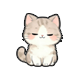
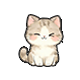
增加过度动画

Changed region(s): [[0.2, 0.15, 0.8, 0.85], [0.575, 0.35, 0.6, 0.4]]

diff --git a/main.py b/main.py
@@ -1,16 +1,22 @@
 import sys
 import os
-from PyQt5.QtWidgets import QApplication, QLabel
-from PyQt5.QtCore import Qt, QPoint, QTimer
-from PyQt5.QtGui import QPixmap
+
+from PyQt6.QtWidgets import (
+    QApplication,
+    QLabel,
+    QMenu,
+)
+from PyQt6.QtCore import Qt, QPoint, QTimer
+from PyQt6.QtGui import QPixmap, QAction
+#启动命令
+# python main.py
 
 
-def resource_path(relative_path):
-    try:
-        base_path = sys._MEIPASS
-    except Exception:
-        base_path = os.path.abspath(".")
-    return os.path.join(base_path, relative_path)
+def resource_path(relative_path: str) -> str:
+    """兼容 PyInstaller / 本地运行"""
+    if hasattr(sys, "_MEIPASS"):
+        return os.path.join(sys._MEIPASS, relative_path)
+    return os.path.join(os.path.abspath("."), relative_path)
 
 
 class DesktopPet(QLabel):
@@ -19,33 +25,30 @@ class DesktopPet(QLabel):
 
         # ===== 窗口设置 =====
         self.setWindowFlags(
-            Qt.FramelessWindowHint |
-            Qt.WindowStaysOnTopHint |
-            Qt.Tool
+            Qt.WindowType.FramelessWindowHint |
+            Qt.WindowType.WindowStaysOnTopHint |
+            Qt.WindowType.Tool
         )
-        self.setAttribute(Qt.WA_TranslucentBackground)
+        self.setAttribute(Qt.WidgetAttribute.WA_TranslucentBackground)
 
-        # ===== 加载图片（不改动作）=====
+        # ===== 图片资源（不改动作）=====
         self.frames = [
-            QPixmap(resource_path("assets/stand/1.png")),
-            QPixmap(resource_path("assets/stand/2.png")),
-            QPixmap(resource_path("assets/stand/3.png")),
-            QPixmap(resource_path("assets/stand/4.png")),
+            QPixmap(resource_path("assets/stand/6.png")),
+            QPixmap(resource_path("assets/stand/7.png")),
+            QPixmap(resource_path("assets/stand/8.png")),
+            QPixmap(resource_path("assets/stand/9.png")),
         ]
 
-        # ===== 动画轨道（顺序 + 停留）=====
-        self.sequence = [0, 0, 1, 2, 3, 3, 2, 1, 0]
-
-        # ===== 每一帧的节奏（ms）=====
-        self.intervals = [260, 200, 120, 120, 220, 260, 140, 140, 300]
+        # ===== 动画轨道 =====
+        self.sequence = [0, 1, 2, 3, 3, 2, 1, 0]
+        self.intervals = [900, 120, 150, 180, 180, 150, 120, 1200]
 
         self.seq_index = 0
 
-        # ===== 显示第一帧 =====
         self.setPixmap(self.frames[0])
         self.resize(self.frames[0].size())
 
-        # ===== 初始位置（防止跑飞）=====
+        # ===== 初始位置 =====
         screen = QApplication.primaryScreen().geometry()
         self.base_x = (screen.width() - self.width()) // 2
         self.base_y = (screen.height() - self.height()) // 2
@@ -54,37 +57,63 @@ class DesktopPet(QLabel):
         # ===== 拖拽 =====
         self.drag_pos = QPoint()
 
-        # ===== 定时器 =====
+        # ===== 动画定时器 =====
         self.timer = QTimer(self)
         self.timer.timeout.connect(self.play_animation)
         self.timer.start(self.intervals[0])
 
+        # ===== 右键菜单 =====
+        self.init_context_menu()
+
+    # ================== 动画 ==================
     def play_animation(self):
         frame_index = self.sequence[self.seq_index]
         self.setPixmap(self.frames[frame_index])
 
-        # ===== 伪缓动（极轻微上下浮动）=====
-        offset_map = {
-            0: 0,
-            1: 1,
-            2: 2,
-            3: 1,
-        }
-        offset = offset_map.get(frame_index, 0)
-        self.move(self.base_x, self.base_y + offset)
+        # 固定位置，不做上下浮动
+        self.move(self.base_x, self.base_y)
 
-        # ===== 下一帧 =====
         self.seq_index = (self.seq_index + 1) % len(self.sequence)
         self.timer.start(self.intervals[self.seq_index])
 
-    # ===== 拖拽 =====
+    # ================== 右键菜单 ==================
+    def init_context_menu(self):
+        self.setContextMenuPolicy(Qt.ContextMenuPolicy.CustomContextMenu)
+        self.customContextMenuRequested.connect(self.show_context_menu)
+
+        self.menu = QMenu(self)
+
+        self.action_settings = QAction("设置", self)
+        self.action_exit = QAction("退出", self)
+
+        self.menu.addAction(self.action_settings)
+        self.menu.addSeparator()
+        self.menu.addAction(self.action_exit)
+
+        self.action_settings.triggered.connect(self.on_settings)
+        self.action_exit.triggered.connect(self.on_exit)
+
+    def show_context_menu(self, pos):
+        self.menu.exec(self.mapToGlobal(pos))
+
+    def on_settings(self):
+        # 先占位，后续你要我可以直接给你写设置窗口
+        print("点击了：设置")
+
+    def on_exit(self):
+        QApplication.quit()
+
+    # ================== 拖拽 ==================
     def mousePressEvent(self, event):
-        if event.button() == Qt.LeftButton:
-            self.drag_pos = event.globalPos() - self.frameGeometry().topLeft()
+        if event.button() == Qt.MouseButton.LeftButton:
+            self.drag_pos = (
+                event.globalPosition().toPoint()
+                - self.frameGeometry().topLeft()
+            )
 
     def mouseMoveEvent(self, event):
-        if event.buttons() & Qt.LeftButton:
-            new_pos = event.globalPos() - self.drag_pos
+        if event.buttons() & Qt.MouseButton.LeftButton:
+            new_pos = event.globalPosition().toPoint() - self.drag_pos
             self.base_x = new_pos.x()
             self.base_y = new_pos.y()
             self.move(new_pos)
@@ -97,4 +126,4 @@ if __name__ == "__main__":
     app = QApplication(sys.argv)
     pet = DesktopPet()
     pet.show()
-    sys.exit(app.exec_())
+    sys.exit(app.exec())

diff --git a/README.md b/README.md
@@ -1,1 +1,3 @@
 # wanwan-desktop-pet
+
+pyinstaller --noconfirm --clean --windowed --add-data "assets;assets" main.py
